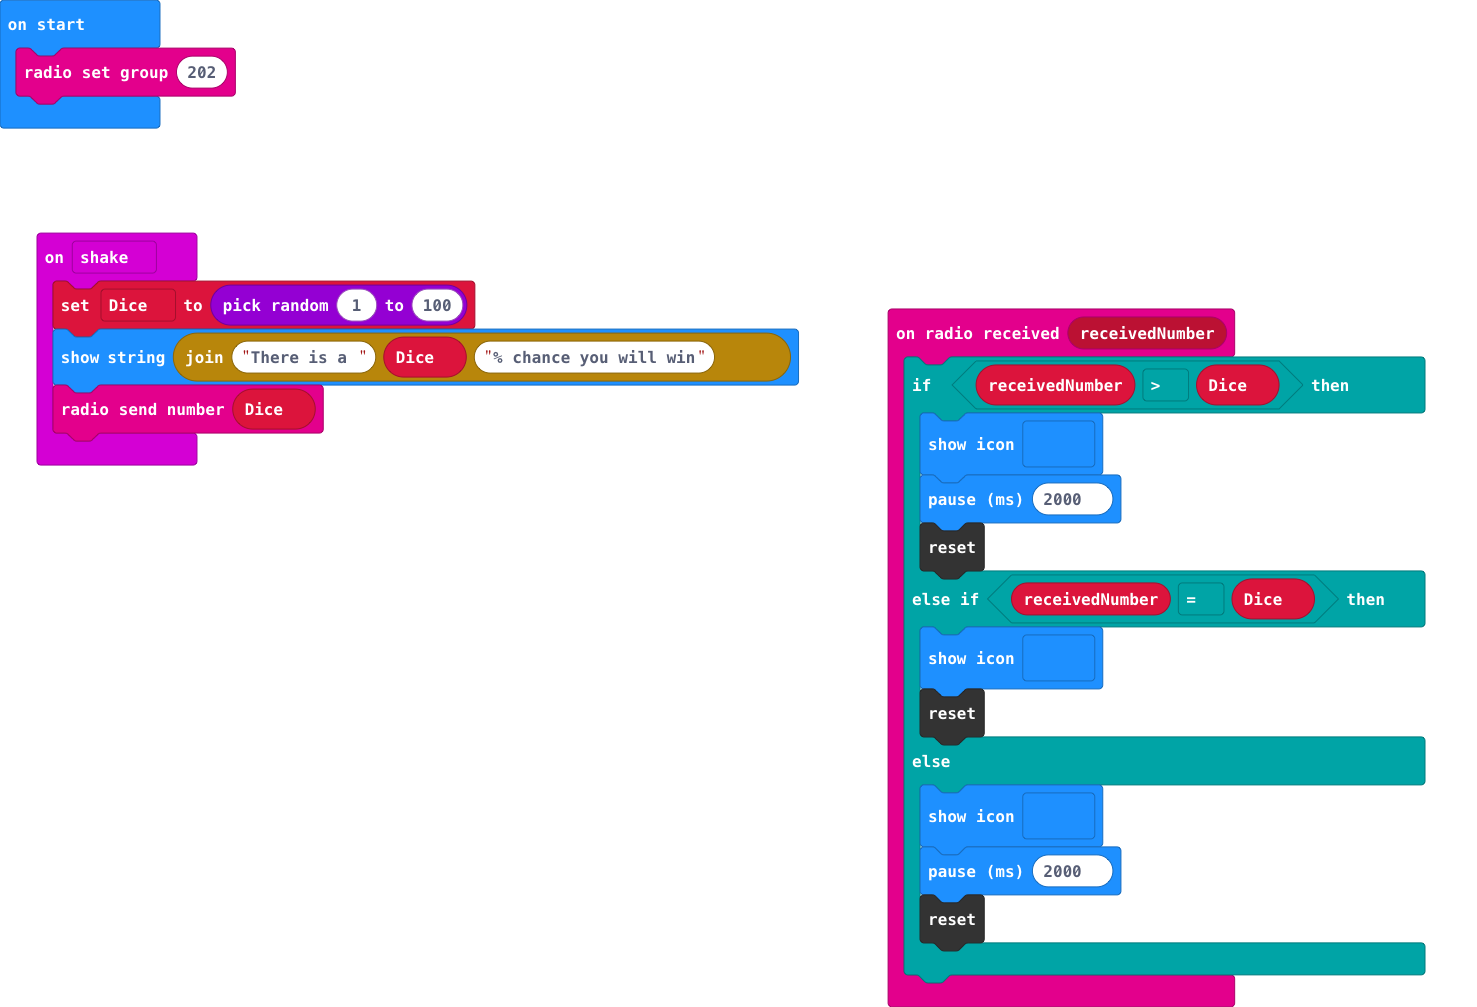
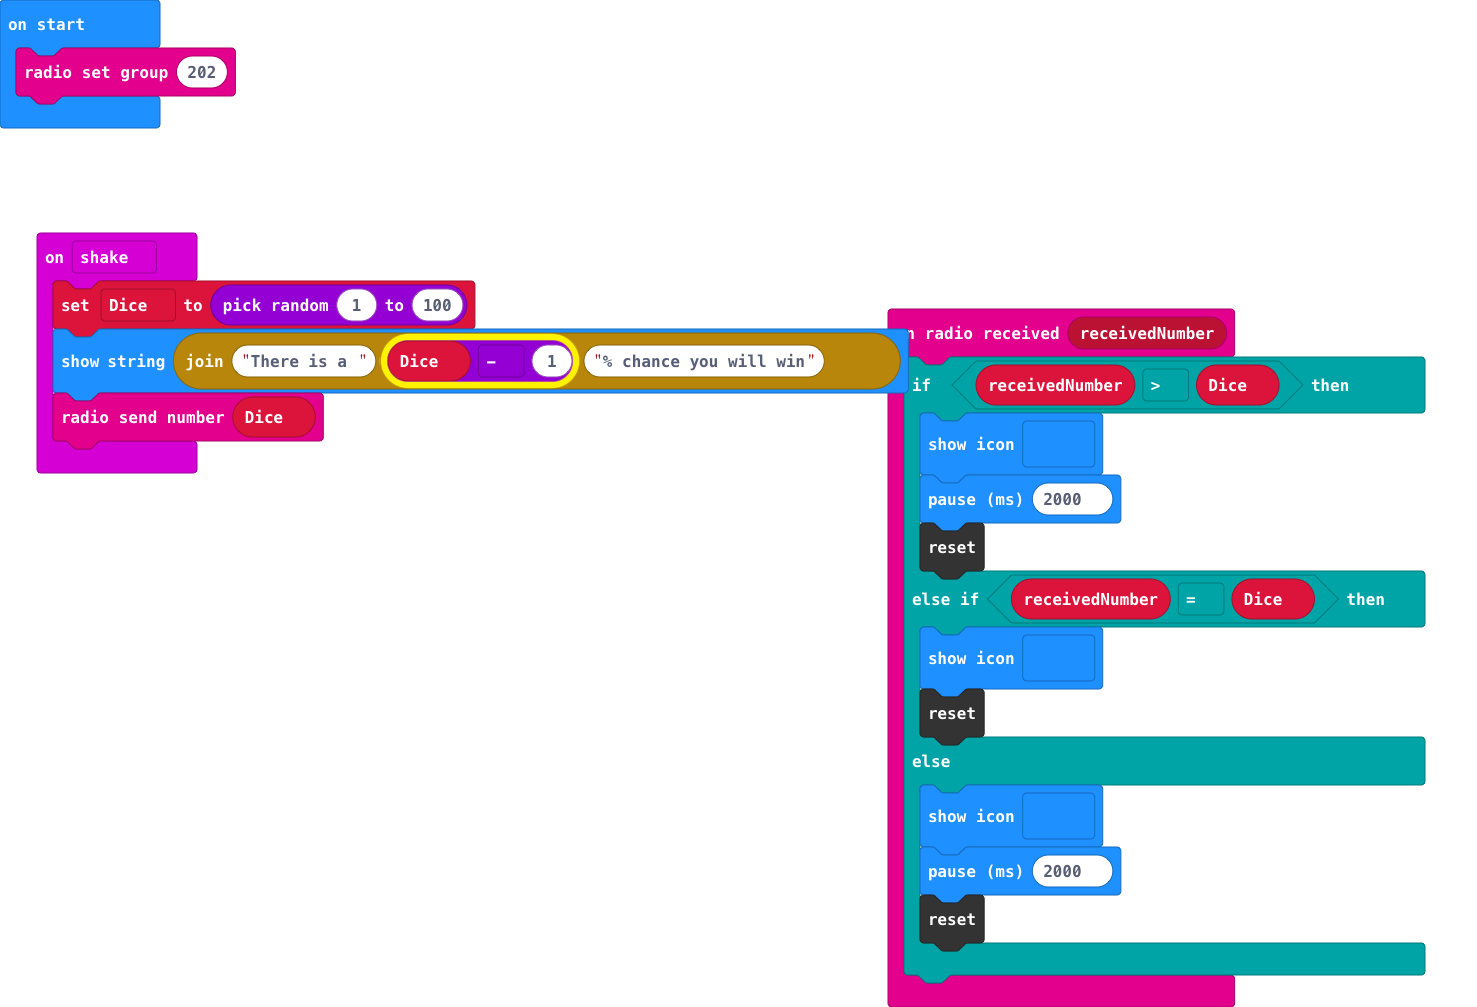
Percentage made correct

Changed region(s): [[0.0311, 0.3078, 0.6229, 0.4926], [0.6852, 0.5541, 0.7786, 0.6157]]

diff --git a/main.ts b/main.ts
@@ -14,7 +14,7 @@ radio.onReceivedNumber(function (receivedNumber) {
 })
 input.onGesture(Gesture.Shake, function () {
     Dice = randint(1, 100)
-    basic.showString("There is a " + Dice + "% chance you will win")
+    basic.showString("There is a " + (Dice - 1) + "% chance you will win")
     radio.sendNumber(Dice)
 })
 let Dice = 0
